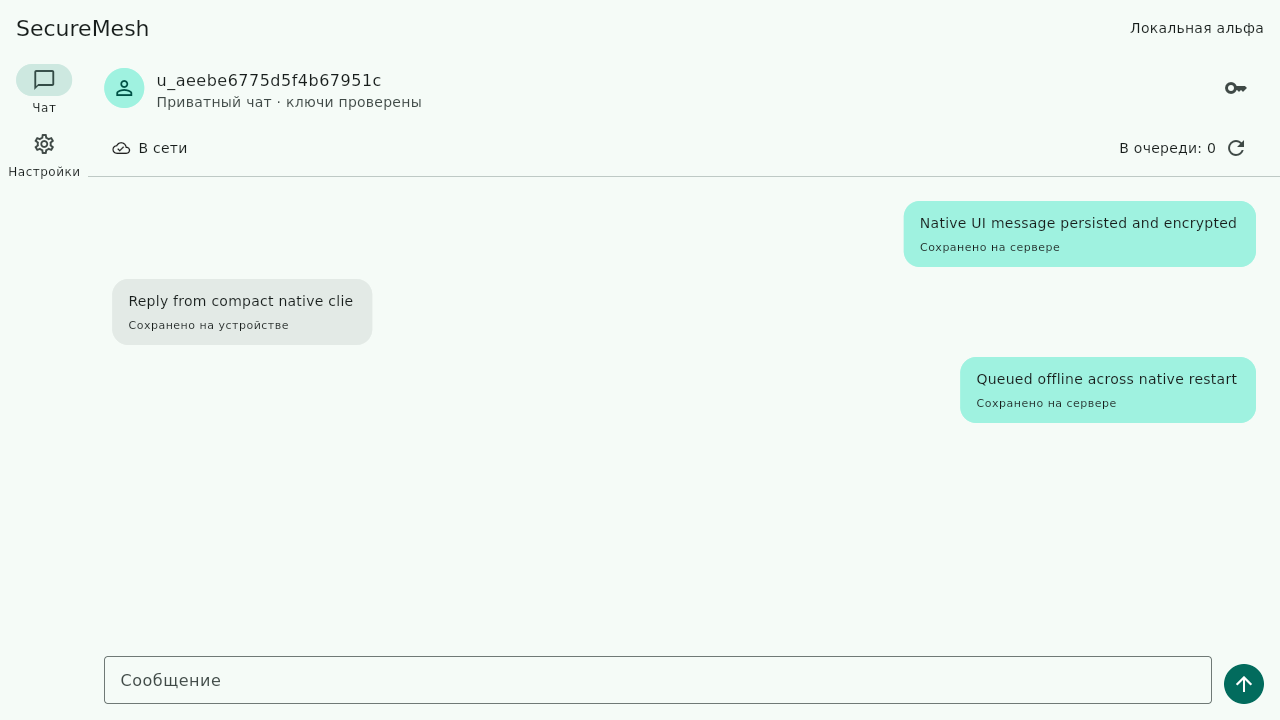
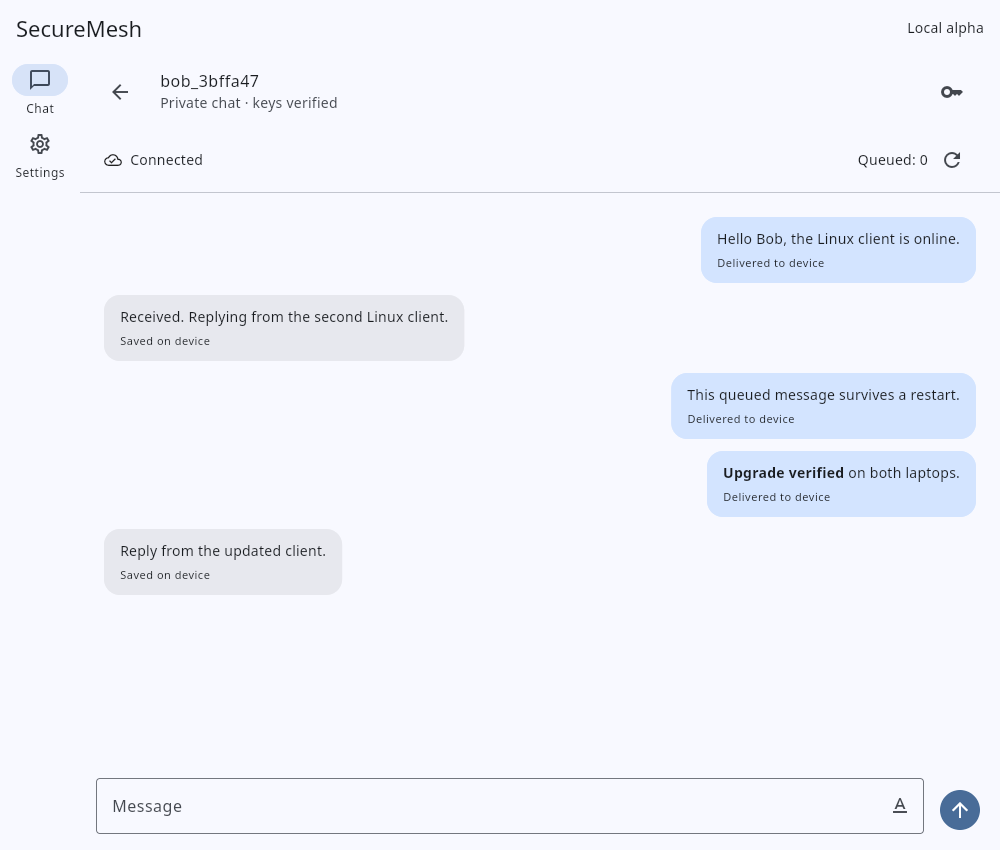
Show the upgraded Linux client after a real two-account exchange

diff --git a/site/index.html b/site/index.html
@@ -11,7 +11,7 @@
 .welcome-preview{max-width:21rem;margin:12px auto}
 </style></head>
 <body><a class="skip" href="#main">К содержанию</a><header><div class="nav"><a class="brand" href="#top"><svg class="logo" viewBox="0 0 32 32" fill="none" aria-hidden="true"><path d="M16 2 28 7v9c0 7-6 12-12 14C10 28 4 23 4 16V7L16 2Z" stroke="currentColor" stroke-width="2.2"/><path d="m10 16 4 4 8-9" stroke="currentColor" stroke-width="2.5" stroke-linecap="round" stroke-linejoin="round"/></svg>SecureMesh</a><nav aria-label="Разделы"><a href="#features">Возможности</a><a href="#downloads">Скачать</a><a href="#start">Подключение</a><a href="#security">Безопасность</a><a href="#network">2G</a><a href="#updates">Обновления</a></nav></div></header>
-<main id="main"><div class="hero" id="top"><div><div class="eyebrow">SecureMesh / Тестовая версия</div><h1>Ваше общение.<br>Ваши ключи.</h1><p class="lead">Мессенджер со сквозным шифрованием и локальным хранением ключей, рассчитанный на нестабильную связь. Знакомьтесь с тестовой версией и её возможностями.</p><div class="facts"><span>Сквозное шифрование MLS</span><span>Ключи на устройстве</span><span>2G: P90 ≤ 5 с — цель</span></div><div class="actions"><a class="btn" href="#downloads">Скачать SecureMesh</a><a class="btn secondary" href="#start">Как подключиться</a><a class="btn secondary" href="#security">Как защищены сообщения</a></div></div><figure class="client-preview"><a href="linux-chat.png" aria-label="Открыть снимок чата в полном размере"><img src="linux-chat.png" width="1280" height="720" alt="Чат Linux-клиента: входящие и исходящие сообщения с отметками сохранения и пустая очередь отправки"></a><figcaption>Чат в лабораторной версии для Linux. Снимок из сохранённого испытания с тестовыми аккаунтами.</figcaption></figure></div>
+<main id="main"><div class="hero" id="top"><div><div class="eyebrow">SecureMesh / Тестовая версия</div><h1>Ваше общение.<br>Ваши ключи.</h1><p class="lead">Мессенджер со сквозным шифрованием и локальным хранением ключей, рассчитанный на нестабильную связь. Знакомьтесь с тестовой версией и её возможностями.</p><div class="facts"><span>Сквозное шифрование MLS</span><span>Ключи на устройстве</span><span>2G: P90 ≤ 5 с — цель</span></div><div class="actions"><a class="btn" href="#downloads">Скачать SecureMesh</a><a class="btn secondary" href="#start">Как подключиться</a><a class="btn secondary" href="#security">Как защищены сообщения</a></div></div><figure class="client-preview"><a href="linux-chat.png" aria-label="Открыть снимок чата в полном размере"><img src="linux-chat.png" width="1000" height="850" alt="Переписка двух Linux-клиентов после обновления: ответ собеседника, сообщение из офлайн-очереди и отметки доставки"></a><figcaption>Два тестовых аккаунта обменялись сообщениями после обновления Linux-клиентов. На снимке видны ответ собеседника и подтверждение доставки сообщения из офлайн-очереди.</figcaption></figure></div>
 <!-- PRODUCT_STATUS_START -->
 <section id="features"><div class="eyebrow">Возможности</div><h2>Что уже умеет SecureMesh</h2><p class="intro">Статус тестовой версии: функции не означают готовность к использованию с чувствительными данными.</p><div class="grid"><article class="card"><span class="stage-label">Экспериментально</span><h3>Защищённые личные сообщения</h3><p>Нативный Linux-клиент, OpenMLS, независимая сверка ключей.</p></article><article class="card"><span class="stage-label">Экспериментально</span><h3>Хранение истории и ключей на устройстве</h3><p>SQLCipher; восстановление утерянной истории пока не реализовано.</p></article><article class="card"><span class="stage-label">Экспериментально</span><h3>Медленные сети</h3><p>Исторические лабораторные испытания GPRS; результаты не распространяются автоматически на iOS.</p></article><article class="card"><span class="stage-label">Запланировано</span><h3>Медиа и запись сообщений</h3><p>Фото, видео, файлы, голосовые сообщения и видеокружки ожидают проверки полного цикла отправки и воспроизведения.</p></article><article class="card"><span class="stage-label">Запланировано</span><h3>Звонки и уведомления</h3><p>Голосовые и видеозвонки, показ системных уведомлений и доставка в фоне пока не прошли приёмку на Android и Linux.</p></article><article class="card"><span class="stage-label">Запланировано</span><h3>Группы и публичные каналы</h3><p>Создание приватной группы, подписка на публичный канал и публикация в нём медиа входят в план разработки.</p></article><article class="card"><span class="stage-label">В разработке</span><h3>Синхронизация истории между устройствами</h3><p>Есть механизм доверия устройств, но перенос истории и полноценный multi-device MLS не завершены.</p></article></div></section>
 <section id="downloads"><div class="eyebrow">Приложение / Платформы</div><h2>Скачать SecureMesh</h2><p class="intro">Последняя опубликованная сборка: 0.1.0 · iPhone alpha 1. <a href="https://github.com/Misha1302/SecureMesh/releases/tag/v0.1.0-ios-alpha.1">Описание релиза</a> · <a href="https://github.com/Misha1302/SecureMesh/actions/runs/45909648698">Проверка сборки</a>.</p><div class="notice"><p><strong>Alpha, не production.</strong> Не используйте реальные чувствительные данные. IPA для iPhone не устанавливается одним нажатием; TestFlight и App Store пока не подтверждены.</p></div><div class="grid product-grid"><article class="card"><span class="stage-label">Экспериментально</span><h3>iPhone / iOS 15+</h3><p><strong>Неподписанная сборка arm64</strong></p><p>IPA содержит Flutter-клиент и нативное ядро Rust. Для установки нужны подпись Apple и provisioning profile. Запуск на физическом iPhone не подтверждён.</p><div class="actions"><a class="btn" href="https://github.com/Misha1302/SecureMesh/releases/download/v0.1.0-ios-alpha.1/SecureMesh-iPhone-arm64-unsigned.ipa">Скачать IPA (unsigned)</a><a class="btn secondary" href="https://github.com/Misha1302/SecureMesh/releases/download/v0.1.0-ios-alpha.1/SHA256SUMS">SHA256SUMS</a></div></article><article class="card"><span class="stage-label">Экспериментально</span><h3>Linux</h3><p><strong>Тестовый клиент</strong></p><p>Есть лабораторные GUI и сетевые испытания. Публичного установщика в Releases пока нет.</p><div class="actions"><a class="btn" href="#linux-build">Сборка из исходников</a></div></article><article class="card"><span class="stage-label">В разработке</span><h3>Android</h3><p><strong>В разработке</strong></p><p>Публичный APK и испытания на устройстве не подтверждены.</p></article><article class="card"><span class="stage-label">Запланировано</span><h3>Windows</h3><p><strong>Запланировано</strong></p><p>Поддерживаемая версия и установщик пока не подтверждены.</p></article><article class="card"><span class="stage-label">В разработке</span><h3>Браузер</h3><p><strong>Приватные чаты недоступны</strong></p><p>Необходима отдельная проверка браузерного криптографического ядра.</p></article></div></section>
@@ -62,7 +62,7 @@ make client</code></pre><p>Тестовая среда должна доверя
 <p>В обновлённом клиенте на доверенном устройстве откройте «Настройки» → «Отображаемое имя». Введите имя и нажмите «Сохранить». Его увидят участники ваших личных диалогов рядом с @username. Сервер хранит это имя в профиле. Чтобы убрать его, очистите поле и сохраните.</p>
 <p>Два человека могут выбрать одинаковое имя. Для приглашения используйте @username, а при открытии защищённого чата сверяйте ключи устройств. Изменение имени сохраняет уже установленную криптографическую привязку.</p></details>
 <p class="quiet"><strong>Зачем сравнивать ключи?</strong> Это как сверить удостоверение личности собеседника: сервер не должен решать за вас, кому принадлежит ключ.</p>
-<div class="tablewrap"><table><thead><tr><th>Статус сообщения</th><th>Что означает</th></tr></thead><tbody><tr><td>В очереди на устройстве</td><td>Сообщение сохранено локально; сервер ещё не подтвердил запись.</td></tr><tr><td>Сохранено на сервере</td><td>Сервер подтвердил долговременную запись шифротекста. Это не означает, что собеседник прочитал сообщение.</td></tr><tr><td>Сохранено на устройстве</td><td>Входящее сообщение проверено и сохранено локально.</td></tr></tbody></table></div>
+<div class="tablewrap"><table><thead><tr><th>Статус сообщения</th><th>Что означает</th></tr></thead><tbody><tr><td>В очереди на устройстве</td><td>Сообщение сохранено локально; сервер ещё не подтвердил запись.</td></tr><tr><td>Сохранено на сервере</td><td>Сервер подтвердил долговременную запись шифротекста. Это не означает, что собеседник прочитал сообщение.</td></tr><tr><td>Доставлено на устройство</td><td>Клиент получил подтверждение доставки сообщения. Собеседник мог ещё не открыть переписку.</td></tr><tr><td>Сохранено на устройстве</td><td>Входящее сообщение проверено и сохранено локально.</td></tr></tbody></table></div>
 </section>
 <section id="devices"><h2>Как подключить второе устройство</h2>
 <p>Понадобятся новое устройство и уже доверенное устройство с открытым профилем. Держите оба рядом для сверки ключей.</p>
